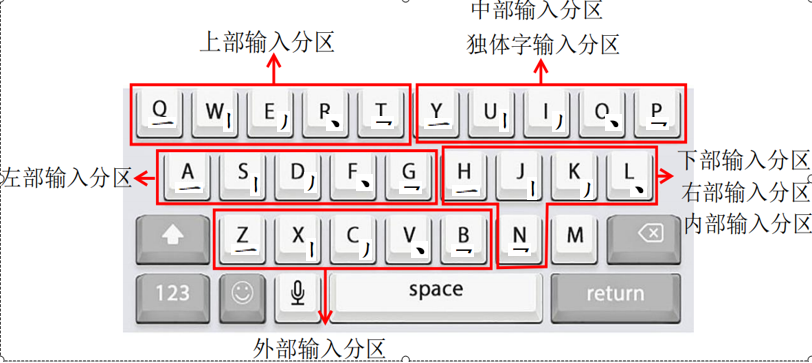
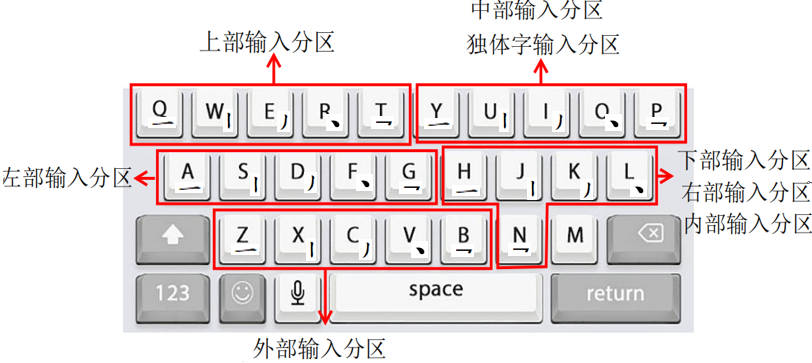
添加优化

Changed region(s): [[0.0, 0.9697, 1.0, 1.0]]

diff --git a/ant-design-vue-jeecg/src/views/test_word/TestWords.vue b/ant-design-vue-jeecg/src/views/test_word/TestWords.vue
@@ -30,7 +30,7 @@
         </div>
     <feeback-form ref="modalForm" @ok="modalFormOk" :wordInfo="wordInfo"
                   @feebackResult="feedbackResult()"></feeback-form>
-    <div style="width: 100%">
+    <div style="width: 100%; margin-top: 5%;margin-left: 20%;">
       <img src="../../assets/sketchMap.png">
     </div>
   </a-card>
